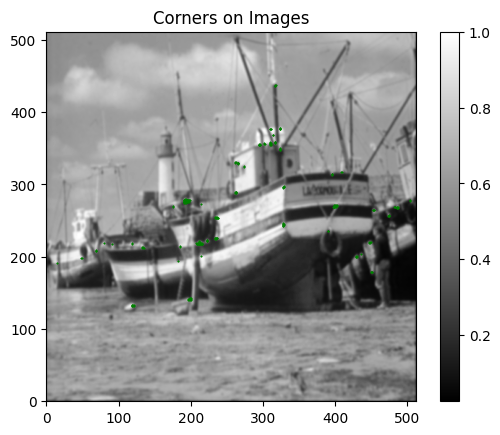
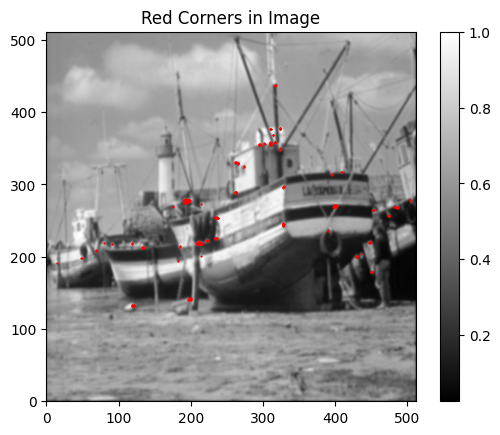
Some small tweaks

diff --git a/assignment-3-segmentation/1/code/myHarrisCornerDetection.py b/assignment-3-segmentation/1/code/myHarrisCornerDetection.py
@@ -88,11 +88,13 @@ def findCorners(filename, window_size_blur, sigma_weights, k, thresh):
     plt.figure()
     plt.imshow(dy,cmap='inferno',origin="lower")
     plt.title("Derivative along Y")
+    plt.colorbar()
     plt.savefig('../images/y_derivative.png',cmap='inferno',bbox_inches="tight")
     
     plt.figure()
     plt.imshow(dx,cmap='inferno',origin="lower")
     plt.title("Derivative along X")
+    plt.colorbar()
     plt.savefig('../images/x_derivative.png',cmap='inferno',bbox_inches="tight")
     
     cornerList = []
@@ -137,10 +139,10 @@ def plotCorners(finalImg,cornerList):
     plt.figure()
     plt.imshow(finalImg,cmap="gray",origin="lower")
     plt.colorbar()
-    plt.title("Corners on Images")
+    plt.title("Red Corners in Image")
     for i in cornerList:
         k,j,l = i
-        plt.scatter(k,j,color="g",s=0.2,marker="*")
+        plt.scatter(k,j,color="r",s=0.3,marker="*")
     plt.savefig('../images/Harris.png',bbox_inches='tight')
     
 def plotEigenValues(eigvalues):
